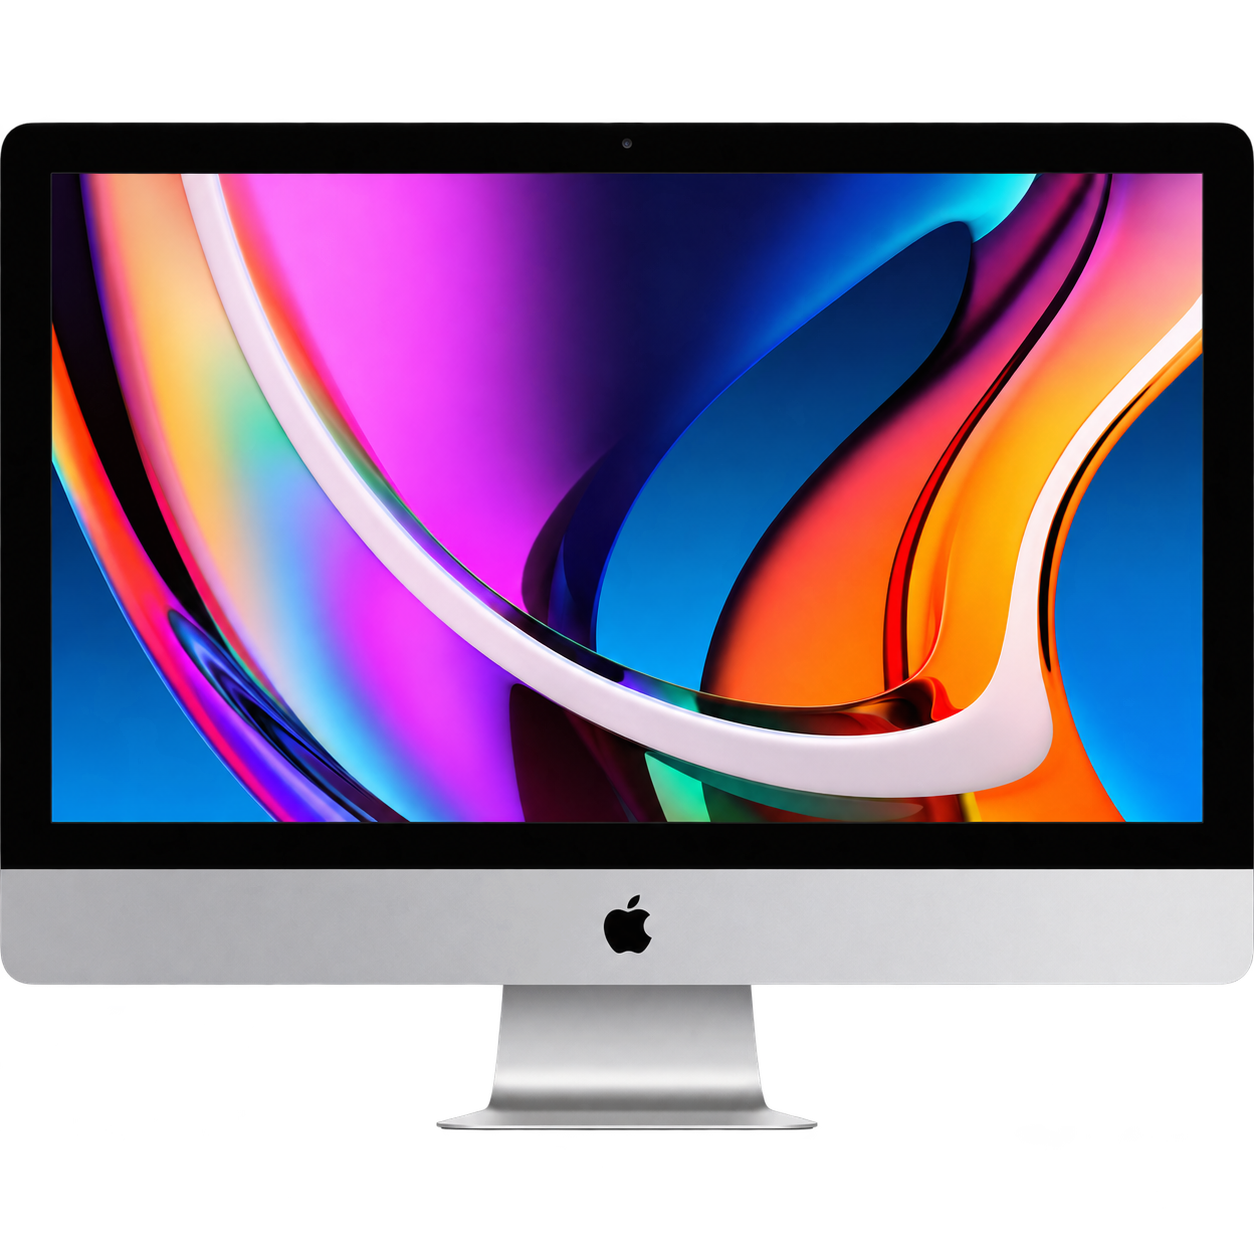
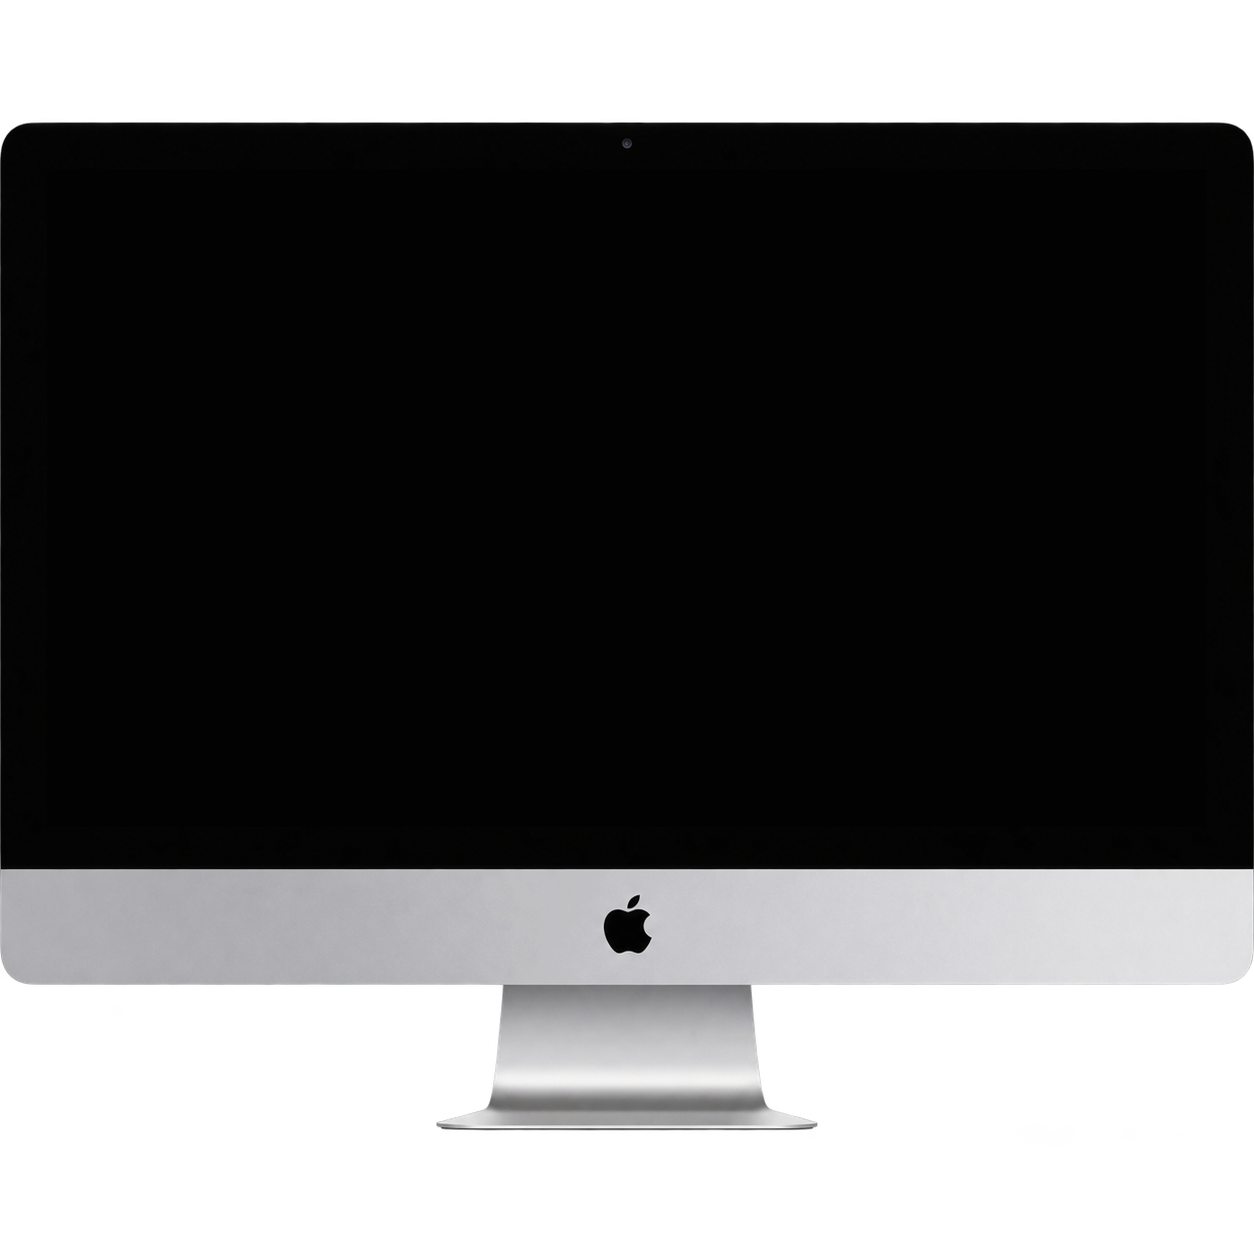
iMac: black out the old wallpaper so no colour fringe shows around the slides

diff --git a/index.html b/index.html
@@ -42,7 +42,7 @@
     <section class="demo-section shell" id="demo" aria-label="Interactive slideshow demo">
 
       <div class="imac" aria-label="Interactive DejaVuScreensaver preview on an iMac">
-        <img class="imac-photo" src="assets/imac-front.png" alt="Straight-on front view of a silver iMac">
+        <img class="imac-photo" src="assets/imac-front.png?v=2" alt="Straight-on front view of a silver iMac">
         <div class="demo-frame" id="demo-frame">
           <div class="slide slide-one active" aria-hidden="false"></div>
           <div class="slide slide-two" aria-hidden="true"></div>
